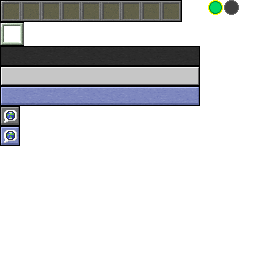
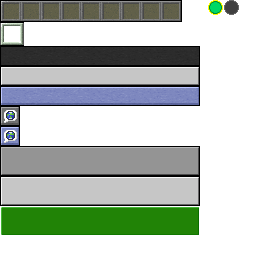
(26.2) [GUI] New button textures, appropriate dimensions, improved text color, little changed positions

Changed region(s): [[0.0, 0.5625, 0.7812, 0.9375]]

diff --git a/src/main/java/pl/olafcio/bedrite/mixin/TitleScreenMixin.java b/src/main/java/pl/olafcio/bedrite/mixin/TitleScreenMixin.java
@@ -10,23 +10,74 @@ import org.spongepowered.asm.mixin.injection.*;
 import org.spongepowered.asm.mixin.injection.invoke.arg.Args;
 import pl.olafcio.bedrite.mixininterface.ITextRenderer;
 
+import java.util.List;
+
 @Mixin(TitleScreen.class)
 public class TitleScreenMixin extends Screen {
     //---------//
     // BUTTONS //
     //---------//
 
-//    @ModifyConstant(constant = {
-//            @Constant(intValue = 100)
-//    }, method = {"init", "method_1724"})
-//    public int buttonWidth__screenHalf__minus(int constant) {
-//        return 98;
-//    }
-//
-//    @Redirect(at = @At(value = "NEW", target = "(IIILjava/lang/String;)Lnet/minecraft/client/gui/widget/ButtonWidget;"), method = {"init", "method_1724"})
-//    public ButtonWidget button__init(int x, int y, int color, String text) {
-//        return new ButtonWidget(x, y, color, 98, 20, text);
-//    }
+    @ModifyConstant(constant = {
+            @Constant(intValue = 100)
+    }, method = {"init", "method_1724"})
+    public int buttonWidth__screenHalf__minus(int constant) {
+        return 146/2;
+    }
+
+    @ModifyConstant(constant = {
+            @Constant(intValue = 24, ordinal = 1),
+            @Constant(intValue = 24, ordinal = 2)
+    }, method = "init")
+    public int button__heightNpad(int constant) {
+        return 30 + 2;
+    }
+
+    @Redirect(at = @At(value = "NEW", target = "(IIILjava/lang/String;)Lnet/minecraft/client/gui/widget/ButtonWidget;"), method = {"init", "method_1724"})
+    public ButtonWidget button__init(int id, int x, int y, String text) {
+        return new ButtonWidget(id, x, y, 146, 30, text);
+    }
+
+    @ModifyConstant(constant = {
+            @Constant(intValue = 48, ordinal = 0)
+    }, method = "init")
+    public int button__start(int constant) {
+        return 56;
+    }
+
+    @ModifyConstant(constant = {
+            @Constant(intValue = 48, ordinal = 1)
+    }, method = "init")
+    public int button__heightNpad2(int constant) {
+        return (30+2) * 2;
+    }
+
+    //--------//
+    // BUTTON //
+    //--------//
+
+    @Redirect(at = @At(value = "INVOKE", target = "Ljava/util/List;add(Ljava/lang/Object;)Z", ordinal = 3), method = "init")
+    public <E> boolean init__addButton__quit(List<E> instance, E e) {
+        return false;
+    }
+
+    @ModifyConstant(constant = {
+            @Constant(intValue = 98, ordinal = 0)
+    }, method = "init") public int init__newButton__options__width(int constant) {
+        return 146;
+    }
+    @ModifyConstant(constant = {
+            @Constant(intValue = 20, ordinal = 0)
+    }, method = "init") public int init__newButton__options__height(int constant) {
+        return 30;
+    }
+
+    @ModifyConstant(constant = {
+            @Constant(intValue = 72)
+    }, method = "init")
+    public int init__newButton__optLangQuit__y(int constant) {
+        return (30+2)*3 - 12;
+    }
 
     //-------//
     // TEXTS //

diff --git a/src/main/java/pl/olafcio/bedrite/mixin/ButtonWidgetMixin.java b/src/main/java/pl/olafcio/bedrite/mixin/ButtonWidgetMixin.java
@@ -1,6 +1,5 @@
 package pl.olafcio.bedrite.mixin;
 
-import net.minecraft.client.font.TextRenderer;
 import net.minecraft.client.gui.widget.ButtonWidget;
 import org.spongepowered.asm.mixin.Mixin;
 import org.spongepowered.asm.mixin.injection.*;
@@ -15,8 +14,29 @@ public class ButtonWidgetMixin {
         return 0x4b4b4b;
     }
 
+    @ModifyConstant(constant = {
+            @Constant(intValue = 0xffffa0)
+    }, method = "method_891")
+    public int render__textColor__hover(int constant) {
+        return 0xefefef;
+    }
+
     @Redirect(at = @At(value = "INVOKE", target = "Lnet/minecraft/client/gui/widget/ButtonWidget;drawCenteredString(Lnet/minecraft/client/font/TextRenderer;Ljava/lang/String;III)V"), method = "method_891")
     public void render__drawCenteredString(ButtonWidget instance, @Coerce ITextRenderer textRenderer, String text, int centerX, int y, int color) {
         textRenderer.drawCenteredStringWithoutShadow(text, centerX, y, color, false);
+    }
+
+    @ModifyConstant(constant = {
+            @Constant(intValue = 46)
+    }, method = "method_891")
+    public int texture_v(int constant) {
+        return 146;
+    }
+
+    @ModifyConstant(constant = {
+            @Constant(intValue = 20)
+    }, method = "method_891")
+    public int texture_v__state_mul(int constant) {
+        return 30;
     }
 }
